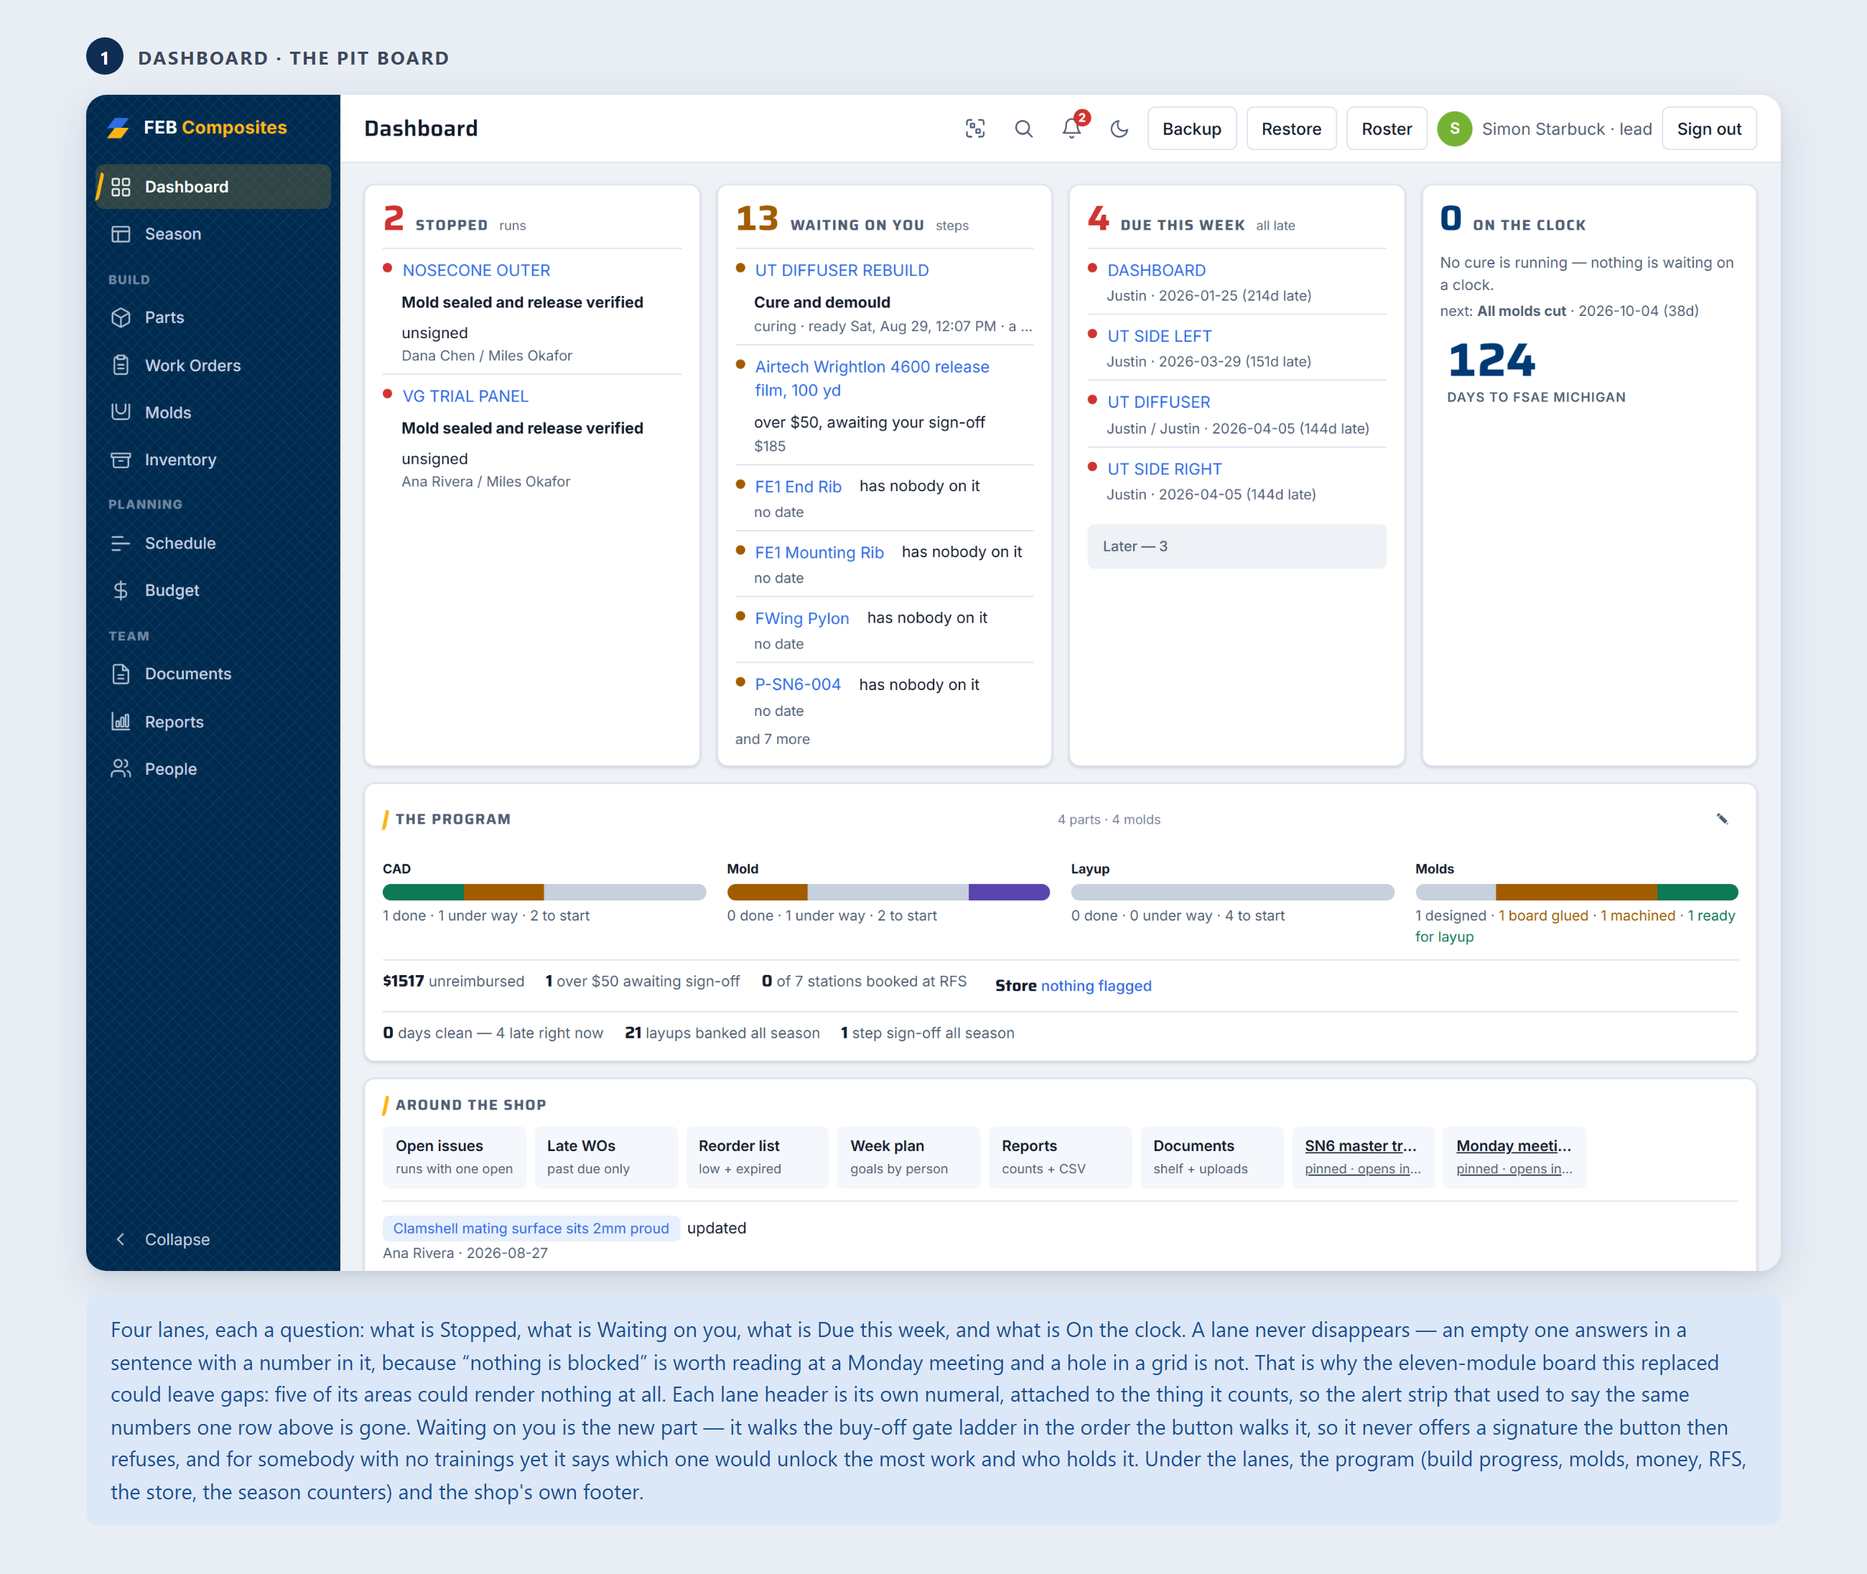
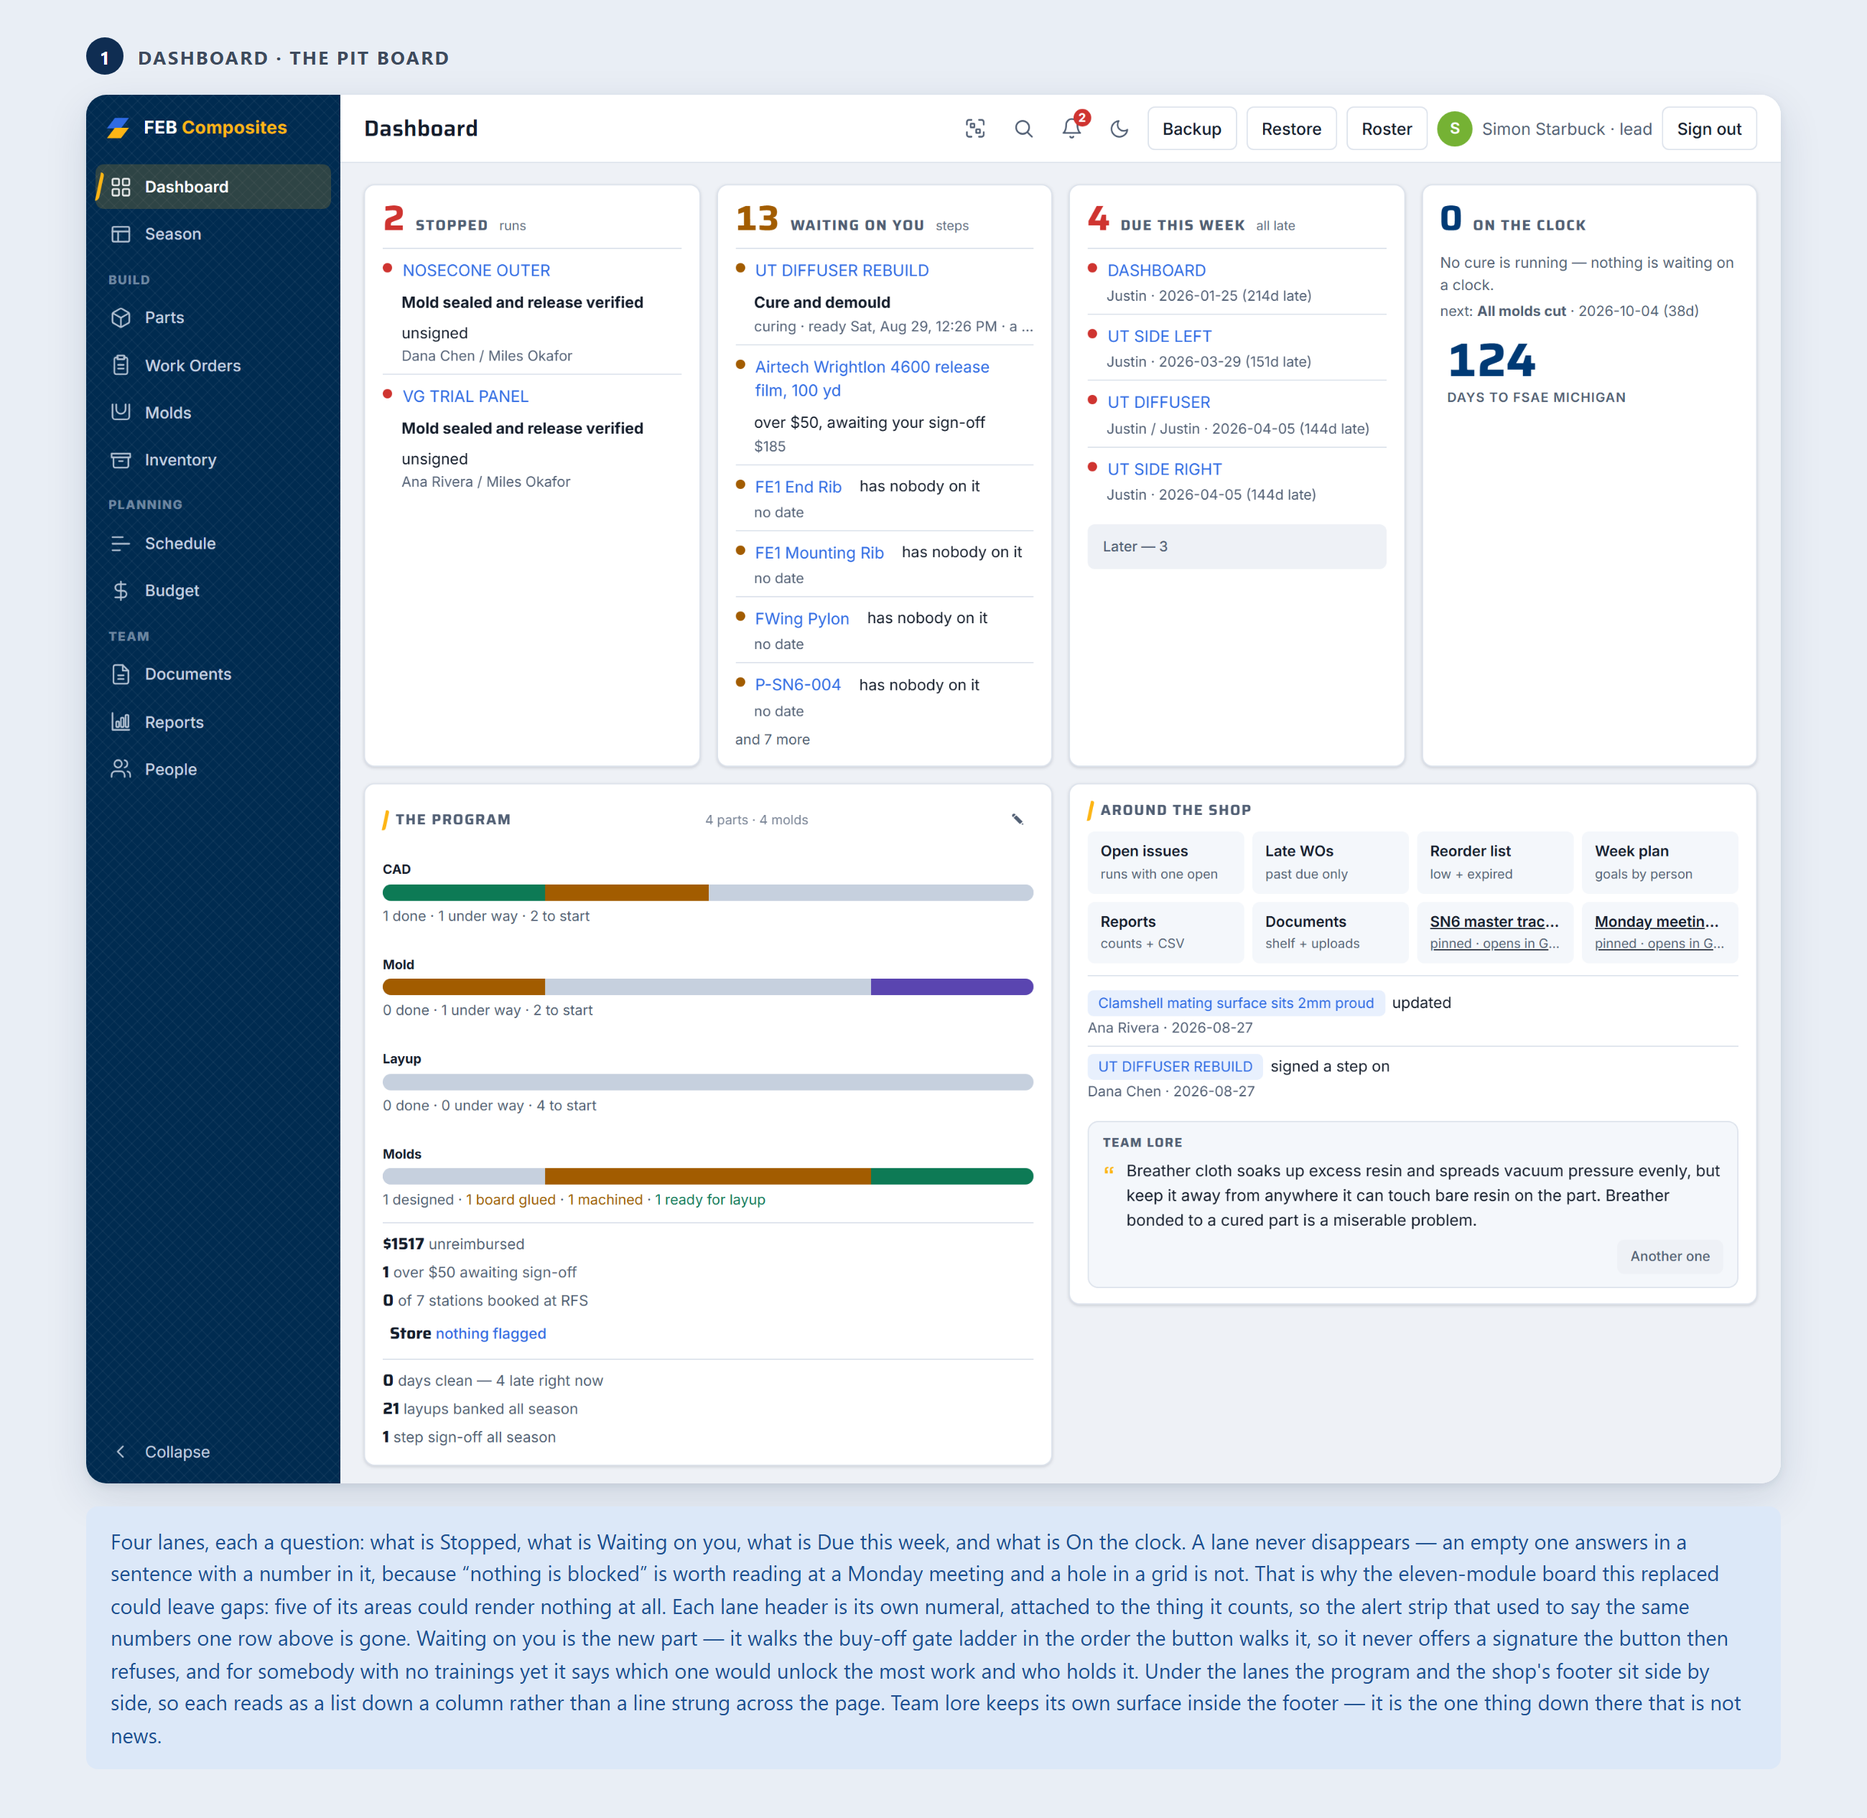
The program and the shop's footer go side by side, and team lore gets a surface
At Simon's ask. Two changes and one consequence.

SIDE BY SIDE, so each is half the board's width and its contents read as a list
down a column instead of a line strung across 1,300px. Four stage bars and six
numbers spread over the full width are a sentence you sweep your eye along; the
same six stacked in 650px are a thing you read. .dprog-bars drops its two- and
four-column breakpoints and .dprog-row becomes a column.

TEAM LORE ON ITS OWN SURFACE, inside the same ruled band. Stacked straight under
the activity feed with nothing between them it read as the last row of it — one
more thing that happened in the shop, rather than the one thing down there that
is not news. Its own tinted panel and its own small header, still in the footer.

The consequence is the mockup: the program column is taller than the strip it
replaced, so the shot's viewport goes 1000 -> 1180. The first attempt at 1320
left a third of the frame empty, which is its own kind of wrong.

One thing deliberately NOT carried over from the first cut of this: .dprog-i had
white-space:nowrap and an ellipsis to keep each fact on one line. A truncated
fact hides the number, which is the only part of it worth reading, and each fact
is its own row in a column now — so it wraps instead.

diff --git a/03 App/app/index.html b/03 App/app/index.html
@@ -2221,7 +2221,7 @@
     grid-template-areas: "stopped" "you" "due" "clock" "prog" "foot"; }
   @media (min-width: 701px) and (max-width: 1300px) {
     .dboard { grid-template-columns: minmax(0, 1fr) minmax(0, 1fr);
-      grid-template-areas: "stopped you" "due clock" "prog prog" "foot foot"; }
+      grid-template-areas: "stopped you" "due clock" "prog foot"; }
   }
   /* 1300, not the house 1100. Four lanes at 1101px get about 211px each, and
      .srow was designed against 304px — the rail-overflow lesson written down
@@ -2229,7 +2229,7 @@
      shoots 900/1440/1920, which lands 2x2 / 4-across / 4-across. */
   @media (min-width: 1301px) {
     .dboard { grid-template-columns: repeat(4, minmax(0, 1fr));
-      grid-template-areas: "stopped you due clock" "prog prog prog prog" "foot foot foot foot"; }
+      grid-template-areas: "stopped you due clock" "prog prog foot foot"; }
   }
   .l-stopped { grid-area: stopped; } .l-you { grid-area: you; }
   .l-due { grid-area: due; } .l-clock { grid-area: clock; }
@@ -2254,11 +2254,19 @@
      disappearing, so the strip is the same height whatever the data says —
      which is the whole difference between this and the five modules it
      replaced. */
-  .dprog-bars { display: grid; gap: 6px; margin-bottom: 10px; }
-  @media (min-width: 901px) { .dprog-bars { grid-template-columns: repeat(2, minmax(0, 1fr)); gap: 6px 18px; } }
-  @media (min-width: 1301px) { .dprog-bars { grid-template-columns: repeat(4, minmax(0, 1fr)); } }
-  .dprog-row { display: flex; flex-wrap: wrap; gap: 4px 18px; font-size: 12.5px; color: var(--muted);
+  /* ONE COLUMN, both of them. The program and the footer are half the board's
+     width each now, so their contents read as a list down a column rather than
+     a line strung across the page — which is the whole reason for putting the
+     two windows in parallel: four bars and six facts spread over 1,300px are a
+     sentence you have to sweep your eye along, and the same six stacked in
+     650px are a thing you read. */
+  .dprog-bars { display: grid; gap: 6px; grid-template-columns: minmax(0, 1fr); margin-bottom: 10px; }
+  .dprog-row { display: flex; flex-direction: column; gap: 3px; font-size: 12.5px; color: var(--muted);
     padding-top: 7px; border-top: 1px solid var(--line); margin-top: 7px; }
+  /* Wraps rather than ellipsises. Each fact is its own row in a column now, so
+     a long one has somewhere to go — and a truncated fact hides the number,
+     which is the only part of it worth reading. */
+  .dprog-i { min-width: 0; }
   .dprog-i b { color: var(--ink); font-family: var(--font-display); font-size: 14px; }
   .dfoot-band { border-top: 1px solid var(--line); margin-top: 10px; padding-top: 6px; }
 
@@ -2336,9 +2344,18 @@
   /* Race day: the one day the board wears gold. */
   .dboard.raceday { border-top: 3px solid var(--gold); padding-top: 10px; }
   /* Fact of the day: prose, one size up, with a gold open-quote garnish. */
-  .dfoot .fq { position: relative; margin: 10px 0 0; padding-left: 20px; font-size: 13.5px; line-height: 1.55; }
+  /* The fact is not one of the shop's errands, and stacked under the activity
+     feed with nothing between them it read as the last row of it. Its own
+     surface inside the same ruled band: still the footer, plainly not the
+     launchpad. */
+  .dlore { margin-top: 10px; padding: 10px 12px 11px; border: 1px solid var(--line);
+    border-radius: var(--r-md); background: var(--surface-2); }
+  .dlore-hd { font-family: var(--font-display); font-size: 11px; font-weight: 700;
+    text-transform: uppercase; letter-spacing: .07em; color: var(--muted); margin-bottom: 5px; }
+  .dfoot .fq { position: relative; margin: 0; padding-left: 20px; font-size: 13.5px; line-height: 1.55; }
   .dfoot .fq::before { content: "\201C"; position: absolute; left: 0; top: -4px; font-family: var(--font-display); font-size: 26px; color: var(--gold); }
-  .dfoot .fmeta { display: flex; align-items: center; gap: 8px; margin-top: 8px; }
+  .dfoot .fmeta { display: flex; align-items: center; justify-content: flex-end; gap: 8px; margin-top: 6px; }
+  .dfoot .fmeta .dg-more { width: auto; margin-top: 0; padding: 5px 10px; font-size: 11.5px; }
 
   /* Phone: the strip becomes one scrollable chip row so four numerals do not
      spend the first screen. The row is the scroller, never the document. */

diff --git a/03 App/app/dashboard.js b/03 App/app/dashboard.js
@@ -793,11 +793,18 @@ function dashFoot() {
       ${pinned.map(d => ext(d.url, d.title || d.id)).join("")}
     </div>
     <div class="dfoot-band">${feed}</div>
+    ${/* Its own surface, inside the same ruled band. Stacked straight under the
+          activity feed with nothing between them, the fact read as the last row
+          of it — one more thing that happened in the shop, rather than the one
+          thing here that is not news. */""}
     ${raceday
-      ? `<p class="fq">It's race day. Everything on this board already happened. Go run the car.</p>`
-      : f ? `<p class="fq">${esc(f.t)}</p>
-        <div class="fmeta"><span class="gh-n tny">${f.src === "lore" ? "team lore" : "the wider world"}</span>
-        <button class="dg-more" onclick="view={...view,factN:(view.factN||0)+1};render()">Another one</button></div>` : ""}
+      ? `<div class="dlore"><div class="dlore-hd">Race day</div>
+        <p class="fq">It's race day. Everything on this board already happened. Go run the car.</p></div>`
+      : f ? `<div class="dlore">
+        <div class="dlore-hd">${f.src === "lore" ? "Team lore" : "Shop knowledge · the wider world"}</div>
+        <p class="fq">${esc(f.t)}</p>
+        <div class="fmeta"><button class="dg-more" onclick="view={...view,factN:(view.factN||0)+1};render()">Another one</button></div>
+      </div>` : ""}
   </div>`;
 }
 

diff --git a/README.md b/README.md
@@ -59,7 +59,7 @@ on phones and tablets as well as desktop. The full manual and setup live in
 Eleven tabs, grouped in the sidebar by who is asking (Dashboard and Season up
 top, then Build, Planning, and Team):
 
-- **Dashboard:** the pit board, and the page you land on. Four lanes, each a question — **Stopped** (what is in the way of a run nobody can move), **Waiting on you** (what *you* can sign right now), **Due this week**, and **On the clock** (what is running without you, and when you come back). A lane never disappears: an empty one says so in a sentence with a number in it, because "nothing is blocked" is worth reading at a Monday meeting. Below them a program strip — build progress, molds, money, RFS bookings, the store, and the all-season counters — and a footer of jumps, recent activity and the fact of the day. **"Waiting on you" is the new part**: it walks the buy-off gate ladder in the same order the button does, so it never promises a signature the button then refuses, and for somebody with no trainings yet it says which training would unlock the most work and who holds it. Role-aware: a lead also sees approvals, cure overrides and unassigned runs; a guest gets a season showcase instead of a work queue.
+- **Dashboard:** the pit board, and the page you land on. Four lanes, each a question — **Stopped** (what is in the way of a run nobody can move), **Waiting on you** (what *you* can sign right now), **Due this week**, and **On the clock** (what is running without you, and when you come back). A lane never disappears: an empty one says so in a sentence with a number in it, because "nothing is blocked" is worth reading at a Monday meeting. Below them, side by side, the program (build progress, molds, money, RFS bookings, the store, the all-season counters) and the shop's footer (the filtered jumps and what has been touched lately, with team lore on its own surface at the foot of it). **"Waiting on you" is the new part**: it walks the buy-off gate ladder in the same order the button does, so it never promises a signature the button then refuses, and for somebody with no trainings yet it says which training would unlock the most work and who holds it. Role-aware: a lead also sees approvals, cure overrides and unassigned runs; a guest gets a season showcase instead of a work queue.
 - **Molds:** planning a mold slices an STL into board layers, splits it at the ShopSabre's cut-depth limit, and prints a dimensioned engineering drawing set. Those drawings now carry **cut sheets**: a schedule of every blank with the board it comes off, then one large sheet per board showing the nest, the numbered saw cuts and everything else sitting on that board. The Molds tab also prints the **whole shop's cut list** as its own sheet set. Both come off one batch pack, so they agree, and both carry a batch stamp — because a nest is a function of every planned mold and changes when any of them does.
 - **Season:** the blueprint, and the tab that replaced the Composites Master Tracker spreadsheet. One line per part the team means to make, most of them nearly empty — which is the point: in September the team knows it is building a nosecone and four side panels, not what their layup schedules are. A line that exists with nothing in it is a commitment to build the thing, and it **is** a real part record from the moment it exists, so there is no promotion step. It is a **read**: name, subteam, the C/M/L rail, where the part has got to in a word, and its deadline — around sixty parts on screen, and no sideways scroll at any width, where thirteen editable columns scrolled at every width. The name opens the part, which is where everything is edited and where the evidence gate and both confirms already live. **Lay out the season** takes a list of names and makes them all at once. This season only, and the Google Sheet is downstream — the app publishes to it every 15 minutes, so an edit made there is overwritten on the next publish.
 - **Work Orders:** the manufacturing traveler, as a split view like Parts and Molds. The rail indexes every run grouped by the part it builds, so the tab reads as the part → run → mold hierarchy; each row carries how far through its buy-offs it is, and whether it is blocked or curing. Parts nobody has started show up too, with the button that starts one. Group, sort and filter are yours to set. The pane keeps the whole record in one scroll, Steps first because that is the bench action, but each section is its own card now, headed by a gold-slashed label carrying the same count and attention word the jump bar shows. A hero band under the title answers the five questions people come for: status as a colored dropdown (no edit mode needed), a steps progress bar, due date, mass actual against target, and the engineers' faces. Blockers and cure holds finally look different (a blocker is a person, amber; a hold is the clock, slate), signed steps compress to one line with their history a tap away, and the next step to act on wears a gold NOW badge and the page's only loud buy-off button. Photos are a first-class record: every step row has a camera button and a thumb strip, a Photos section collects everything on the record grouped by step, and declining "sign without a photo?" opens the camera and finishes the buy-off once the photo lands. Reference blocks (BOM, event log) fold behind counted summaries; quality and files fold only when empty; the note thread lives in its own card. Layup stack, BOM, step buy-offs stamped with who signed, blocker steps, and enforced cure holds backed by the datasheets in `resins.js`. Prints to a hand-fillable sheet that is always exactly two pages. **Issues** are a section of the run they hold up: raise one from the section or from a step's flag button, dispose it inline, and the run cannot be set Complete until every issue has a resolution method and a documented root cause — the same CS-003 gate whether you close it on the page, from a step, or in the closeout modal that a refused Complete opens. The rail's `issues` chip filters to the runs still carrying one. Deleting a run is one path that takes everything that only existed because of it — the issues it holds up, the photos and CAD uploaded to it, and the work-order link on any part, mold or test panel that named it — and a lead can tick as many runs off the rail as they like and clear a season in one pass. (Until v1.0.0 issues shared a Tickets tab with project tracking; that tab is shelved — see `03 App/app/SHELVED.md`.)

diff --git a/03 App/app/README.md b/03 App/app/README.md
@@ -63,11 +63,22 @@ deadline" has no honest answer, and inventing one is how a board starts lying
 quietly. There is an order inside *Waiting on you*, where everything is the same
 kind of thing, and nowhere else.
 
-Below the lanes, **the program**: build progress, molds, money, this week's RFS
-bookings, the store, and the all-season counters — the facts that are a monthly
-read rather than a daily one, one line each. A fact with no value prints a
-labelled dash instead of disappearing. Then **around the shop**: the filtered
-jumps, what has been touched lately, and the fact of the day.
+Below the lanes, **the program** and **around the shop** sit side by side. The
+program carries build progress, molds, money, this week's RFS bookings, the
+store and the all-season counters — the facts that are a monthly read rather
+than a daily one — and a fact with no value prints a labelled dash instead of
+disappearing. Around the shop carries the filtered jumps and what has been
+touched lately.
+
+Side by side rather than stacked because each is then half the board's width,
+and its contents read as a list down a column instead of a line strung across
+1,300px. Four bars and six numbers spread over the full width are a sentence you
+sweep your eye along; the same six stacked in 650px are a thing you read.
+
+**Team lore keeps its own surface** inside that footer, below the rule. Stacked
+straight under the activity feed with nothing between them it read as the last
+row of it — one more thing that happened in the shop, rather than the one thing
+down there that is not news.
 
 A **guest** gets a different page rather than an emptier one — see below.
 
